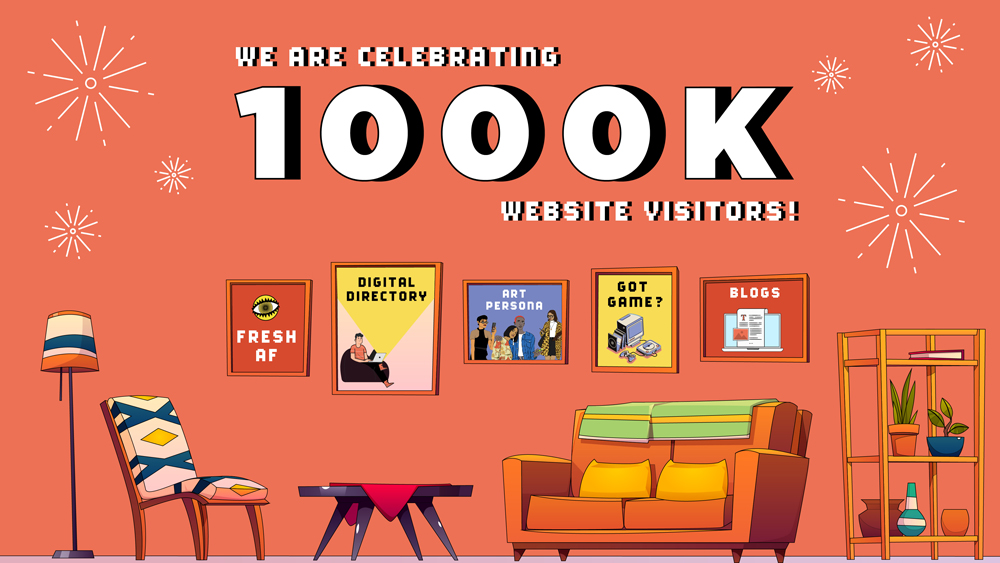
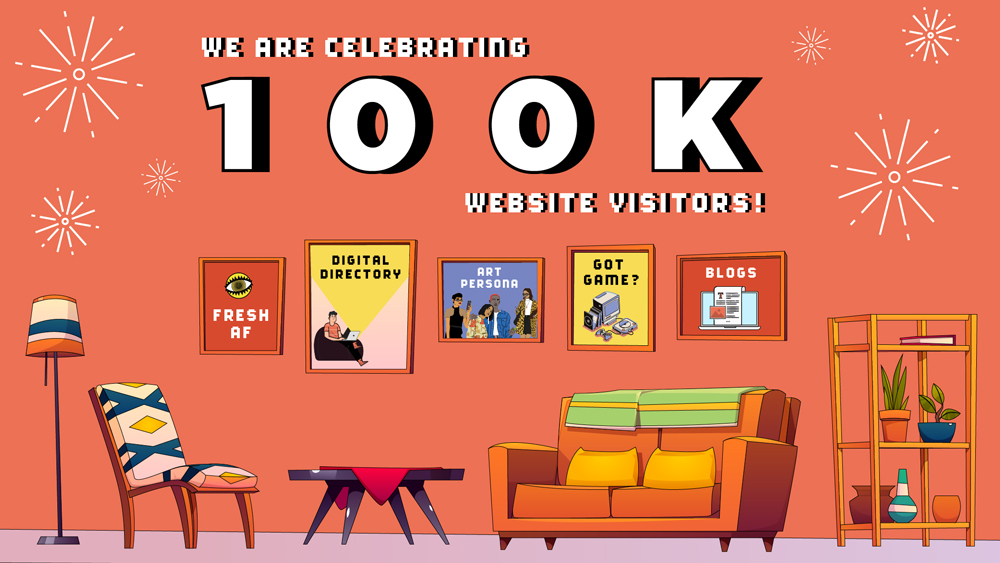
update styles

diff --git a/style.css b/style.css
@@ -35,40 +35,40 @@ body {
   width: 106px;
   height: 133px;
   position: absolute;
-  right: 563px;
-  top: 261px;
+  right: 587px;
+  top: 240px;
 }
 
 .frame-2 {
   width: 89px;
   height: 108px;
   position: absolute;
-  right: 320px;
-  top: 266px;
+  right: 343px;
+  top: 244px;
 }
 
 .frame-3 {
   width: 86px;
   height: 98px;
   position: absolute;
-  right: 688px;
-  top: 279px;
+  right: 716px;
+  top: 259px;
 }
 
 .frame-4 {
   width: 108px;
   height: 86px;
   position: absolute;
-  right: 430px;
-  top: 279px;
+  right: 454px;
+  top: 256px;
 }
 
 .frame-5 {
   width: 111px;
   height: 91px;
   position: absolute;
-  right: 190px;
-  top: 273px;
+  right: 213px;
+  top: 252px;
 }
 
 /* .frame-modern:hover {
@@ -102,49 +102,49 @@ body {
 }
 
 @media only screen and (max-width: 560px) {
-  body {
-    background: #fff;
-  }
   .frame-banner {
     background-image: url(mobile2.jpg);
     width: 320px;
     height: 569px;
     background-repeat: no-repeat;
   }
+  .frame:hover {
+    background-color: transparent;
+  }
   .frame-1 {
     width: 40px;
     height: 40px;
     position: absolute;
-    right: 149px;
-    top: 273px;
+    right: 147px;
+    top: 259px;
   }
   .frame-2 {
     width: 40px;
     height: 40px;
     position: absolute;
-    right: 105px;
-    top: 376px;
+    right: 85px;
+    top: 373px;
   }
   .frame-3 {
     width: 40px;
     height: 40px;
     position: absolute;
-    right: 243px;
-    top: 269px;
+    right: 247px;
+    top: 258px;
   }
   .frame-4 {
     width: 40px;
     height: 40px;
     position: absolute;
-    right: 202px;
-    top: 382px;
+    right: 184px;
+    top: 373px;
   }
   .frame-5 {
     width: 40px;
     height: 40px;
     position: absolute;
-    right: 45px;
-    top: 270px;
+    right: 38px;
+    top: 257px;
   }
 }
 /*# sourceMappingURL=style.css.map */

diff --git a/style.scss b/style.scss
@@ -30,40 +30,40 @@ body {
   width: 106px;
   height: 133px;
   position: absolute;
-  right: 563px;
-  top: 261px;
+  right: 587px;
+  top: 240px;
 }
 
 .frame-2 {
   width: 89px;
   height: 108px;
   position: absolute;
-  right: 320px;
-  top: 266px;
+  right: 343px;
+  top: 244px;
 }
 
 .frame-3 {
   width: 86px;
   height: 98px;
   position: absolute;
-  right: 688px;
-  top: 279px;
+  right: 716px;
+  top: 259px;
 }
 
 .frame-4 {
   width: 108px;
   height: 86px;
   position: absolute;
-  right: 430px;
-  top: 279px;
+  right: 454px;
+  top: 256px;
 }
 
 .frame-5 {
   width: 111px;
   height: 91px;
   position: absolute;
-  right: 190px;
-  top: 273px;
+  right: 213px;
+  top: 252px;
 }
 
 /* .frame-modern:hover {
@@ -97,48 +97,48 @@ body {
 }
 
 @media only screen and (max-width: 560px) {
-  body {
-    background: #fff;
-  }
   .frame-banner {
     background-image: url(mobile2.jpg);
     width: 320px;
     height: 569px;
     background-repeat: no-repeat;
   }
+  .frame:hover {
+    background-color: transparent;
+  }
   .frame-1 {
     width: 40px;
     height: 40px;
     position: absolute;
-    right: 149px;
-    top: 273px;
+    right: 147px;
+    top: 259px;
   }
   .frame-2 {
     width: 40px;
     height: 40px;
     position: absolute;
-    right: 105px;
-    top: 376px;
+    right: 85px;
+    top: 373px;
   }
   .frame-3 {
     width: 40px;
     height: 40px;
     position: absolute;
-    right: 243px;
-    top: 269px;
+    right: 247px;
+    top: 258px;
   }
   .frame-4 {
     width: 40px;
     height: 40px;
     position: absolute;
-    right: 202px;
-    top: 382px;
+    right: 184px;
+    top: 373px;
   }
   .frame-5 {
     width: 40px;
     height: 40px;
     position: absolute;
-    right: 45px;
-    top: 270px;
+    right: 38px;
+    top: 257px;
   }
 }
